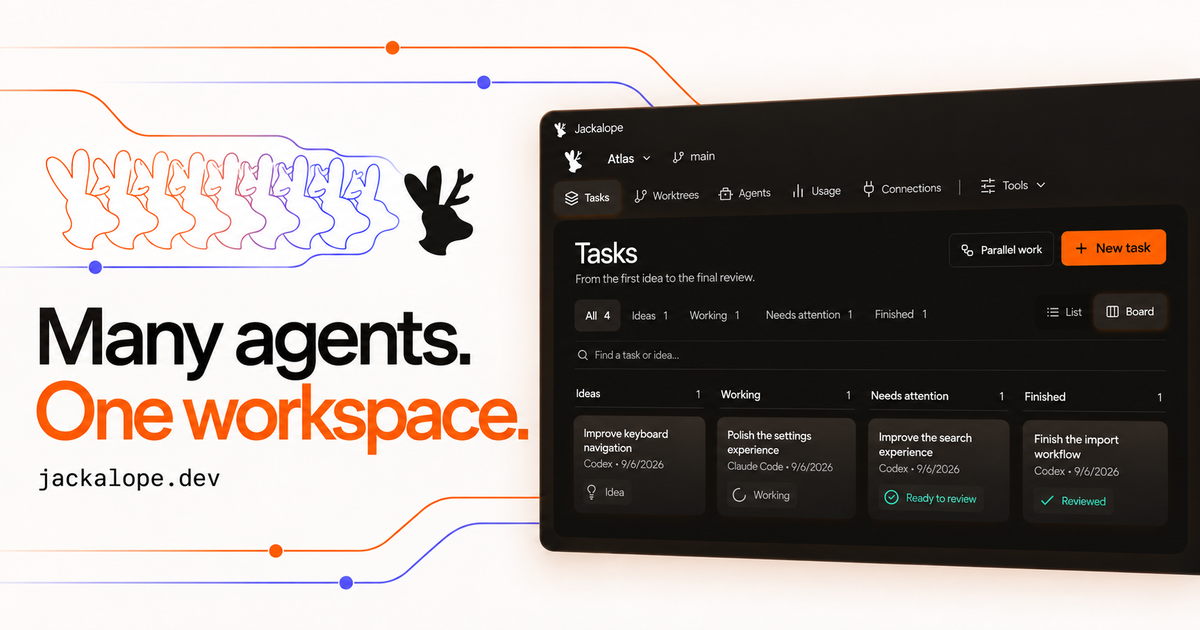
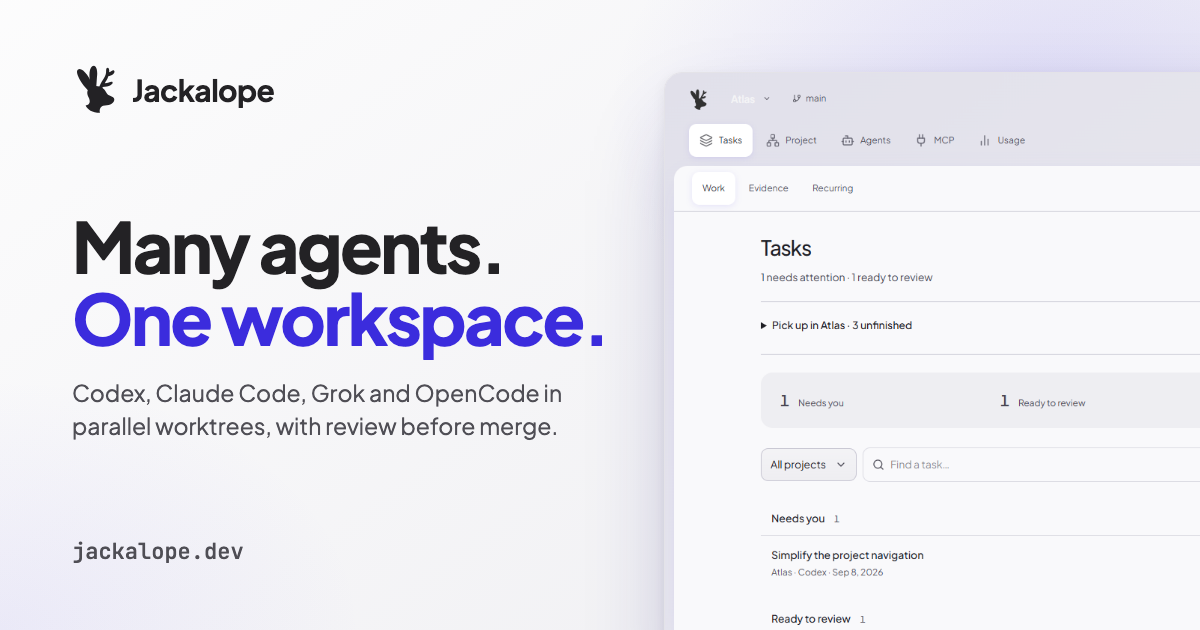
Commit staged deletions and rebuild the social preview image
- git_commit_changes now skips `git add` for paths missing from both the
  index and worktree, such as already-staged deletions or rename sources.
  `git add` rejects those paths, but `commit --only` still records them.
  Adds a test covering a staged deletion committed alongside a modification.
- Replace the Playwright snippet that screenshotted the live site with
  capture-social.mjs. It renders a dedicated social-preview.html (brand,
  headline, product screenshot) to public/social-preview.png. It uses Edge
  on Windows by default, and UI_BROWSER_CHANNEL overrides the browser.
- Regenerate the Open Graph image and document how to rebuild it.

diff --git a/apps/website/scripts/social-preview.html b/apps/website/scripts/social-preview.html
@@ -1,0 +1,133 @@
+<!doctype html>
+<html lang="en">
+  <head>
+    <meta charset="UTF-8" />
+    <title>Jackalope social preview</title>
+    <!-- Values follow themeTokens() for the website theme: Electric Indigo, light, atmosphere 18. -->
+    <style>
+      @font-face {
+        font-family: 'Plus Jakarta Sans Variable';
+        font-weight: 200 800;
+        src: url('../../../node_modules/.pnpm/@fontsource-variable+plus-jakarta-sans@5.3.0/node_modules/@fontsource-variable/plus-jakarta-sans/files/plus-jakarta-sans-latin-wght-normal.woff2')
+          format('woff2');
+      }
+      @font-face {
+        font-family: 'JetBrains Mono Variable';
+        font-weight: 100 800;
+        src: url('../../../node_modules/.pnpm/@fontsource-variable+jetbrains-mono@5.3.0/node_modules/@fontsource-variable/jetbrains-mono/files/jetbrains-mono-latin-wght-normal.woff2')
+          format('woff2');
+      }
+      :root {
+        --color-accent: hsl(245 88% 64%);
+        --color-accent-ink: hsl(245 72% 52%);
+        --color-bg: hsl(245 8.1% 99%);
+        --color-shell: hsl(245 11.7% 94%);
+        --color-border-subtle: hsl(245 8.1% 90%);
+        --color-text-primary: hsl(245 4% 14%);
+        --color-text-secondary: hsl(245 4% 32%);
+      }
+      * {
+        box-sizing: border-box;
+        margin: 0;
+      }
+      html,
+      body {
+        width: 1200px;
+        height: 630px;
+        overflow: hidden;
+      }
+      body {
+        position: relative;
+        font-family: 'Plus Jakarta Sans Variable', sans-serif;
+        color: var(--color-text-primary);
+        background:
+          radial-gradient(640px 420px at 88% 18%, hsl(245 88% 64% / 0.16), transparent 70%),
+          radial-gradient(520px 360px at 0% 100%, hsl(245 88% 64% / 0.08), transparent 70%),
+          linear-gradient(145deg, var(--color-bg), var(--color-shell));
+      }
+      .copy {
+        position: absolute;
+        left: 72px;
+        top: 64px;
+        bottom: 64px;
+        width: 560px;
+        display: flex;
+        flex-direction: column;
+      }
+      .brand {
+        display: flex;
+        align-items: center;
+        gap: 14px;
+        font-size: 30px;
+        font-weight: 700;
+        letter-spacing: -0.02em;
+      }
+      .brand svg {
+        width: 46px;
+        height: 51px;
+        fill: var(--color-text-primary);
+      }
+      h1 {
+        margin-top: auto;
+        font-size: 70px;
+        line-height: 1.04;
+        font-weight: 750;
+        letter-spacing: -0.035em;
+      }
+      h1 span {
+        display: block;
+        color: var(--color-accent-ink);
+      }
+      p {
+        margin-top: 22px;
+        font-size: 23px;
+        line-height: 1.42;
+        color: var(--color-text-secondary);
+      }
+      .url {
+        margin-top: auto;
+        font-family: 'JetBrains Mono Variable', monospace;
+        font-size: 22px;
+        font-weight: 500;
+        color: var(--color-text-secondary);
+      }
+      .shot {
+        position: absolute;
+        left: 664px;
+        top: 72px;
+        width: 1080px;
+        border-radius: 18px;
+        overflow: hidden;
+        border: 1px solid var(--color-border-subtle);
+        box-shadow:
+          0 40px 90px -24px hsl(245 60% 30% / 0.32),
+          0 4px 14px hsl(0 0% 0% / 0.06);
+      }
+      .shot img {
+        display: block;
+        width: 100%;
+      }
+    </style>
+  </head>
+  <body>
+    <div class="copy">
+      <div class="brand">
+        <svg viewBox="38 4 105 117" aria-hidden="true">
+          <path d="M85 65 C77 48 74 16 84 9 C94 3 97 20 95 34 L93 62 Z" />
+          <path d="M80 68 C64 58 43 23 51 17 C60 9 79 32 88 61 Z" />
+          <path
+            d="M99 64 C100 49 111 40 115 28 C117 23 115 17 117 14 C121 10 124 16 123 23 C128 22 131 17 134 19 C139 24 128 32 121 32 C119 39 115 44 113 48 C122 47 127 43 130 45 C135 50 122 57 108 57 L107 67 Z"
+          />
+          <path
+            d="M78 59 C86 53 100 53 109 60 C116 65 116 73 124 76 L132 80 C139 85 132 96 122 98 L109 100 C102 103 100 110 102 116 C84 116 73 108 69 99 C80 98 80 89 76 81 C72 73 71 65 78 59 Z"
+          />
+        </svg>
+        Jackalope
+      </div>
+      <h1>Many agents.<span>One workspace.</span></h1>
+      <p>Codex, Claude Code, Grok and OpenCode in parallel worktrees, with review before merge.</p>
+      <div class="url">jackalope.dev</div>
+    </div>
+    <div class="shot"><img src="../public/media/tasks-light.png" alt="" /></div>
+  </body>
+</html>

diff --git a/apps/desktop/src-tauri/src/commands/commit_review.rs b/apps/desktop/src-tauri/src/commands/commit_review.rs
@@ -8,7 +8,7 @@ use super::{
 use serde::Serialize;
 use serde_json::Value;
 use std::{
-    collections::HashMap,
+    collections::{HashMap, HashSet},
     io::Write,
     path::{Path, PathBuf},
     process::Stdio,
@@ -511,9 +511,22 @@ pub async fn git_commit_changes(
         };
         let message = policy.message(&text, &agents);
 
-        let mut add = vec!["add", "-A", "--"];
-        add.extend(&pathspecs);
-        git(&root, &add, Policy::Isolated)?;
+        // A deletion or rename source already staged exists in neither the index nor
+        // the worktree, and `git add` rejects it; `commit --only` still records it.
+        let mut listed = vec!["ls-files", "-z", "--"];
+        listed.extend(&pathspecs);
+        let indexed = git(&root, &listed, Policy::Isolated)?;
+        let indexed: HashSet<&str> = indexed.split('\0').collect();
+        let additions: Vec<&str> = pathspecs
+            .iter()
+            .copied()
+            .filter(|path| indexed.contains(path) || root.join(path).symlink_metadata().is_ok())
+            .collect();
+        if !additions.is_empty() {
+            let mut add = vec!["add", "-A", "--"];
+            add.extend(&additions);
+            git(&root, &add, Policy::Isolated)?;
+        }
 
         let mut args = vec!["commit", "--only", "-F", "-", "--"];
         args.extend(&pathspecs);
@@ -746,6 +759,44 @@ mod tests {
         git(&["add", "."]);
         git(&["commit", "-q", "-m", "base"]);
         root
+    }
+
+    #[tokio::test]
+    async fn commit_includes_deletions_already_staged() {
+        let root = fixture();
+        std::fs::write(root.join("gone.txt"), "old\n").unwrap();
+        let git = |args: &[&str]| {
+            assert!(
+                command(&root, args, Policy::Isolated)
+                    .status()
+                    .unwrap()
+                    .success(),
+                "{args:?}"
+            )
+        };
+        git(&["add", "gone.txt"]);
+        git(&["commit", "-q", "-m", "add gone"]);
+        git(&["rm", "-q", "gone.txt"]);
+        std::fs::write(root.join("kept.txt"), "two\n").unwrap();
+        let path = root.to_string_lossy().to_string();
+        git_commit_changes(
+            path.clone(),
+            path,
+            vec!["gone.txt".into(), "kept.txt".into()],
+            "Remove gone".into(),
+            String::new(),
+            vec![],
+        )
+        .await
+        .map_err(|failure| failure.message)
+        .unwrap();
+        let committed = super::git(
+            &root,
+            &["show", "--name-status", "--format=", "HEAD"],
+            Policy::Inspection,
+        )
+        .unwrap();
+        assert_eq!(committed.trim(), "D\tgone.txt\nM\tkept.txt");
     }
 
     #[tokio::test]

diff --git a/apps/website/README.md b/apps/website/README.md
@@ -63,6 +63,10 @@ for light mode and the corresponding unsuffixed files for dark mode.
 it does not reproduce the edited film. Select reviewed runtime exports and update
 all fields in `tour` together when replacing the film.
 
+`scripts/social-preview.html` is the source for `public/social-preview.png`, the
+Open Graph image. After changing it or `media/tasks-light.png`, regenerate it with
+`node apps/website/scripts/capture-social.mjs`.
+
 ## Verification
 
 Against the website preview, the browser callback checks responsive layout,
